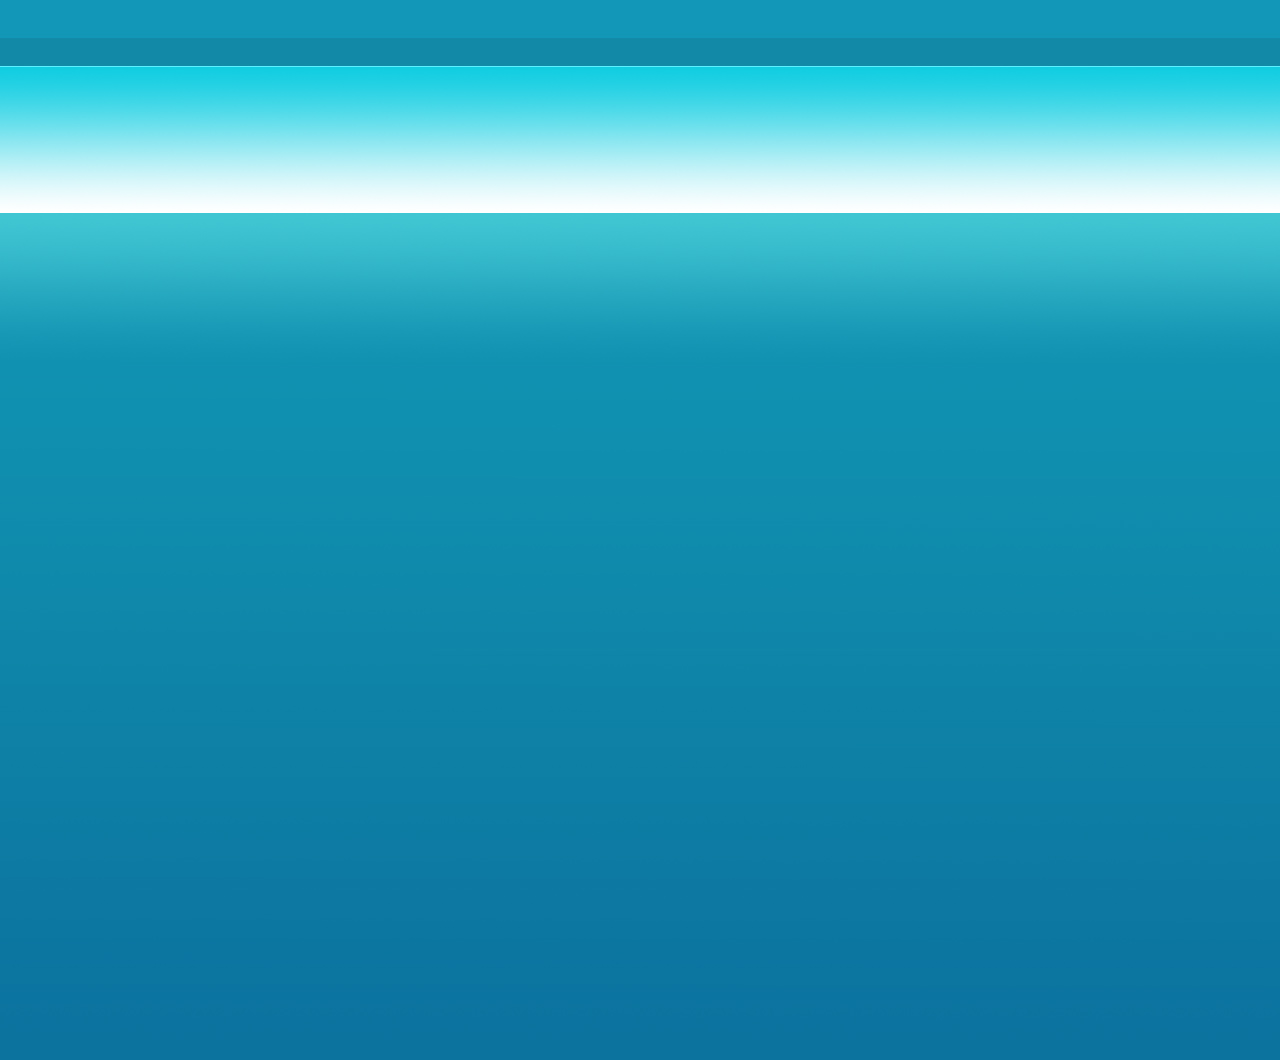
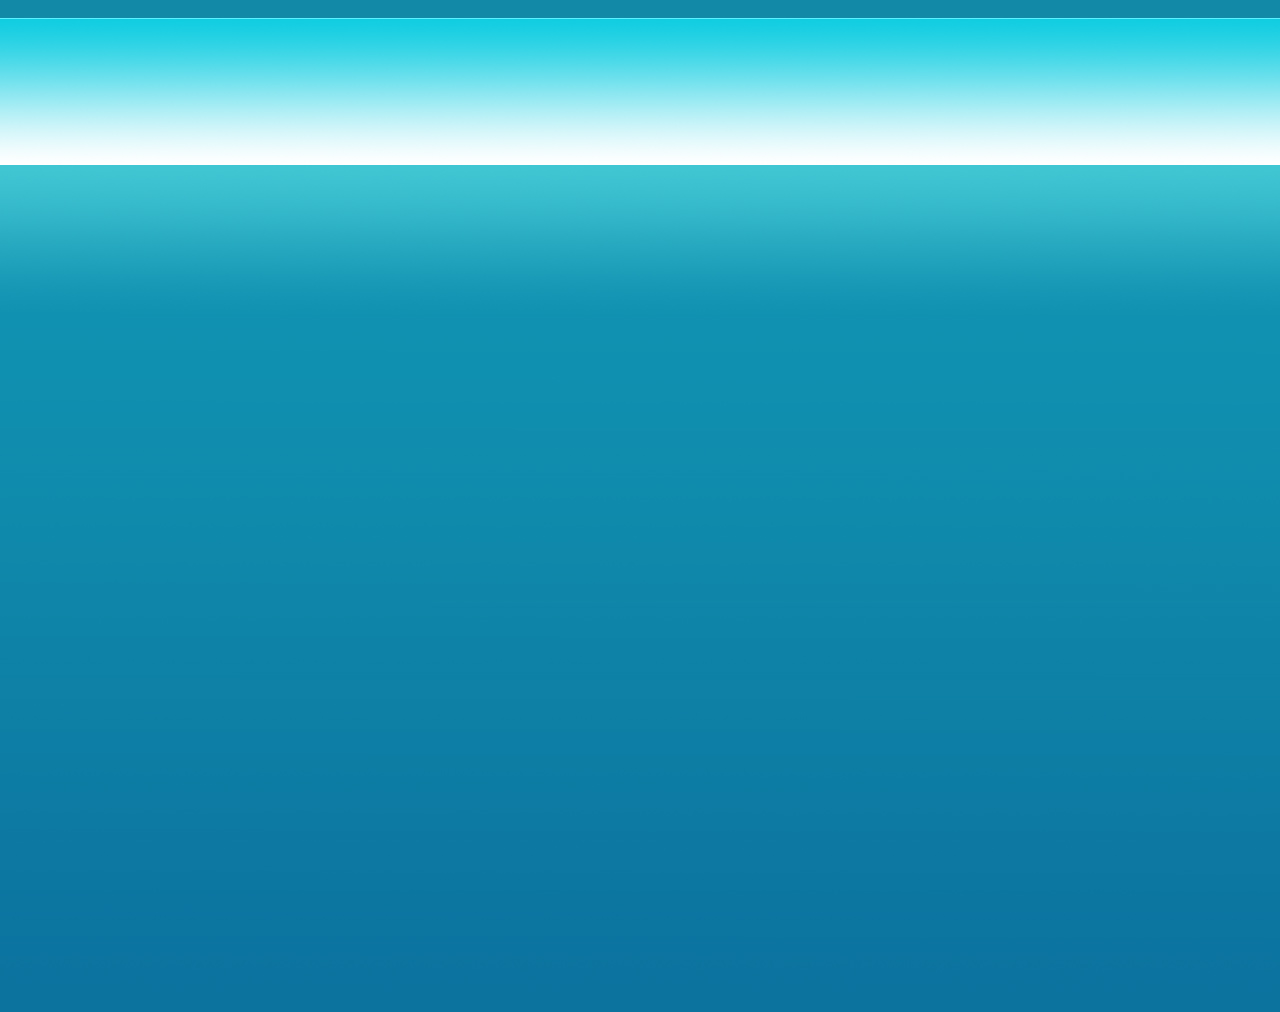
errors fixed

Changed region(s): [[0.0, 0.0, 1.0, 0.2144]]

diff --git a/index.html b/index.html
@@ -24,13 +24,13 @@
 				</div>
 				<div class="countries">
 					<ul class="list_img">
-						<li><a href="#"><img src="img/india.png" alt="india"></a><br><a href="#">Индия</a>
+						<li><a href="#"><img src="img/india.png" alt="india"><br>Индия</a>
 						</li>
-						<li><a href="#"><img src="img/Nepal.png" alt="nepal"></a><br><a class="name" href="#">Непал</a></li>
-						<li><a href="#"><img src="img/tibet.png" alt="tibet"></a><br><a class="name" href="#">Тибет</a></li>
-						<li><a href="#"><img src="img/Bhutan.png" alt="Bhutan"></a><br><a class="name" href="#">Бутан</a></li>
-						<li><a href="#"><img src="img/sri-lanka.png" alt="sri-lanka"></a><br><a href="#">Шри-Ланка</a></li>
-						<li><a href="#"><img src="img/maldives.png" alt="maldives"></a><br><a href="#">Мальдивы</a></li>
+						<li><a href="#"><img src="img/Nepal.png" alt="nepal"><br>Непал</a></li>
+						<li><a href="#"><img src="img/tibet.png" alt="tibet"><br>Тибет</a></li>
+						<li><a href="#"><img src="img/Bhutan.png" alt="Bhutan"><br>Бутан</a></li>
+						<li><a href="#"><img src="img/sri-lanka.png" alt="sri-lanka"><br>Шри-Ланка</a></li>
+						<li><a href="#"><img src="img/maldives.png" alt="maldives"><br>Мальдивы</a></li>
 					</ul>	
 
 				</div>

diff --git a/css/style.css b/css/style.css
@@ -10,6 +10,9 @@
 	background-color: white;
 	font-family: Tahoma, Arial;
 	font-size: 12px;
+	-webkit-box-shadow: 1px 4px 17px 2px rgba(0,0,0,0.54);
+  -moz-box-shadow: 1px 4px 17px 2px rgba(0,0,0,0.54);
+  box-shadow: 1px 4px 17px 2px rgba(0,0,0,0.54);
 }
 .contacts{
 	float: right;
@@ -43,11 +46,13 @@
 	color: #128aa7;
 	font-size: 10px;
 }
-.name{
-	padding-left: 10px;
-}
+
 .sea{
 	clear: both;
+	max-width: 100%;
+	border-top: 1px solid #128aa7;
+	border-bottom: 1px solid #128aa7;
+
 }
 
 /*<CONTENT>*/
@@ -59,6 +64,10 @@ ul.menu {
 	padding: 0;
 	list-style: none;
 	background-color: #282828;
+	border-bottom: 1px solid black;
+	-webkit-box-shadow: 0px 4px 12px -2px rgba(0,0,0,0.88);
+	-moz-box-shadow: 0px 4px 12px -2px rgba(0,0,0,0.88);
+	box-shadow: 0px 4px 12px -2px rgba(0,0,0,0.88);
 }
 ul:after {
 	display: block;
@@ -152,6 +161,7 @@ h3{
 footer{
 	clear: both;
 	text-align: center;
+	padding: 10px;
 	color: white;
 	font-family: Tahoma, Arial;
 	font-size: 12px;
